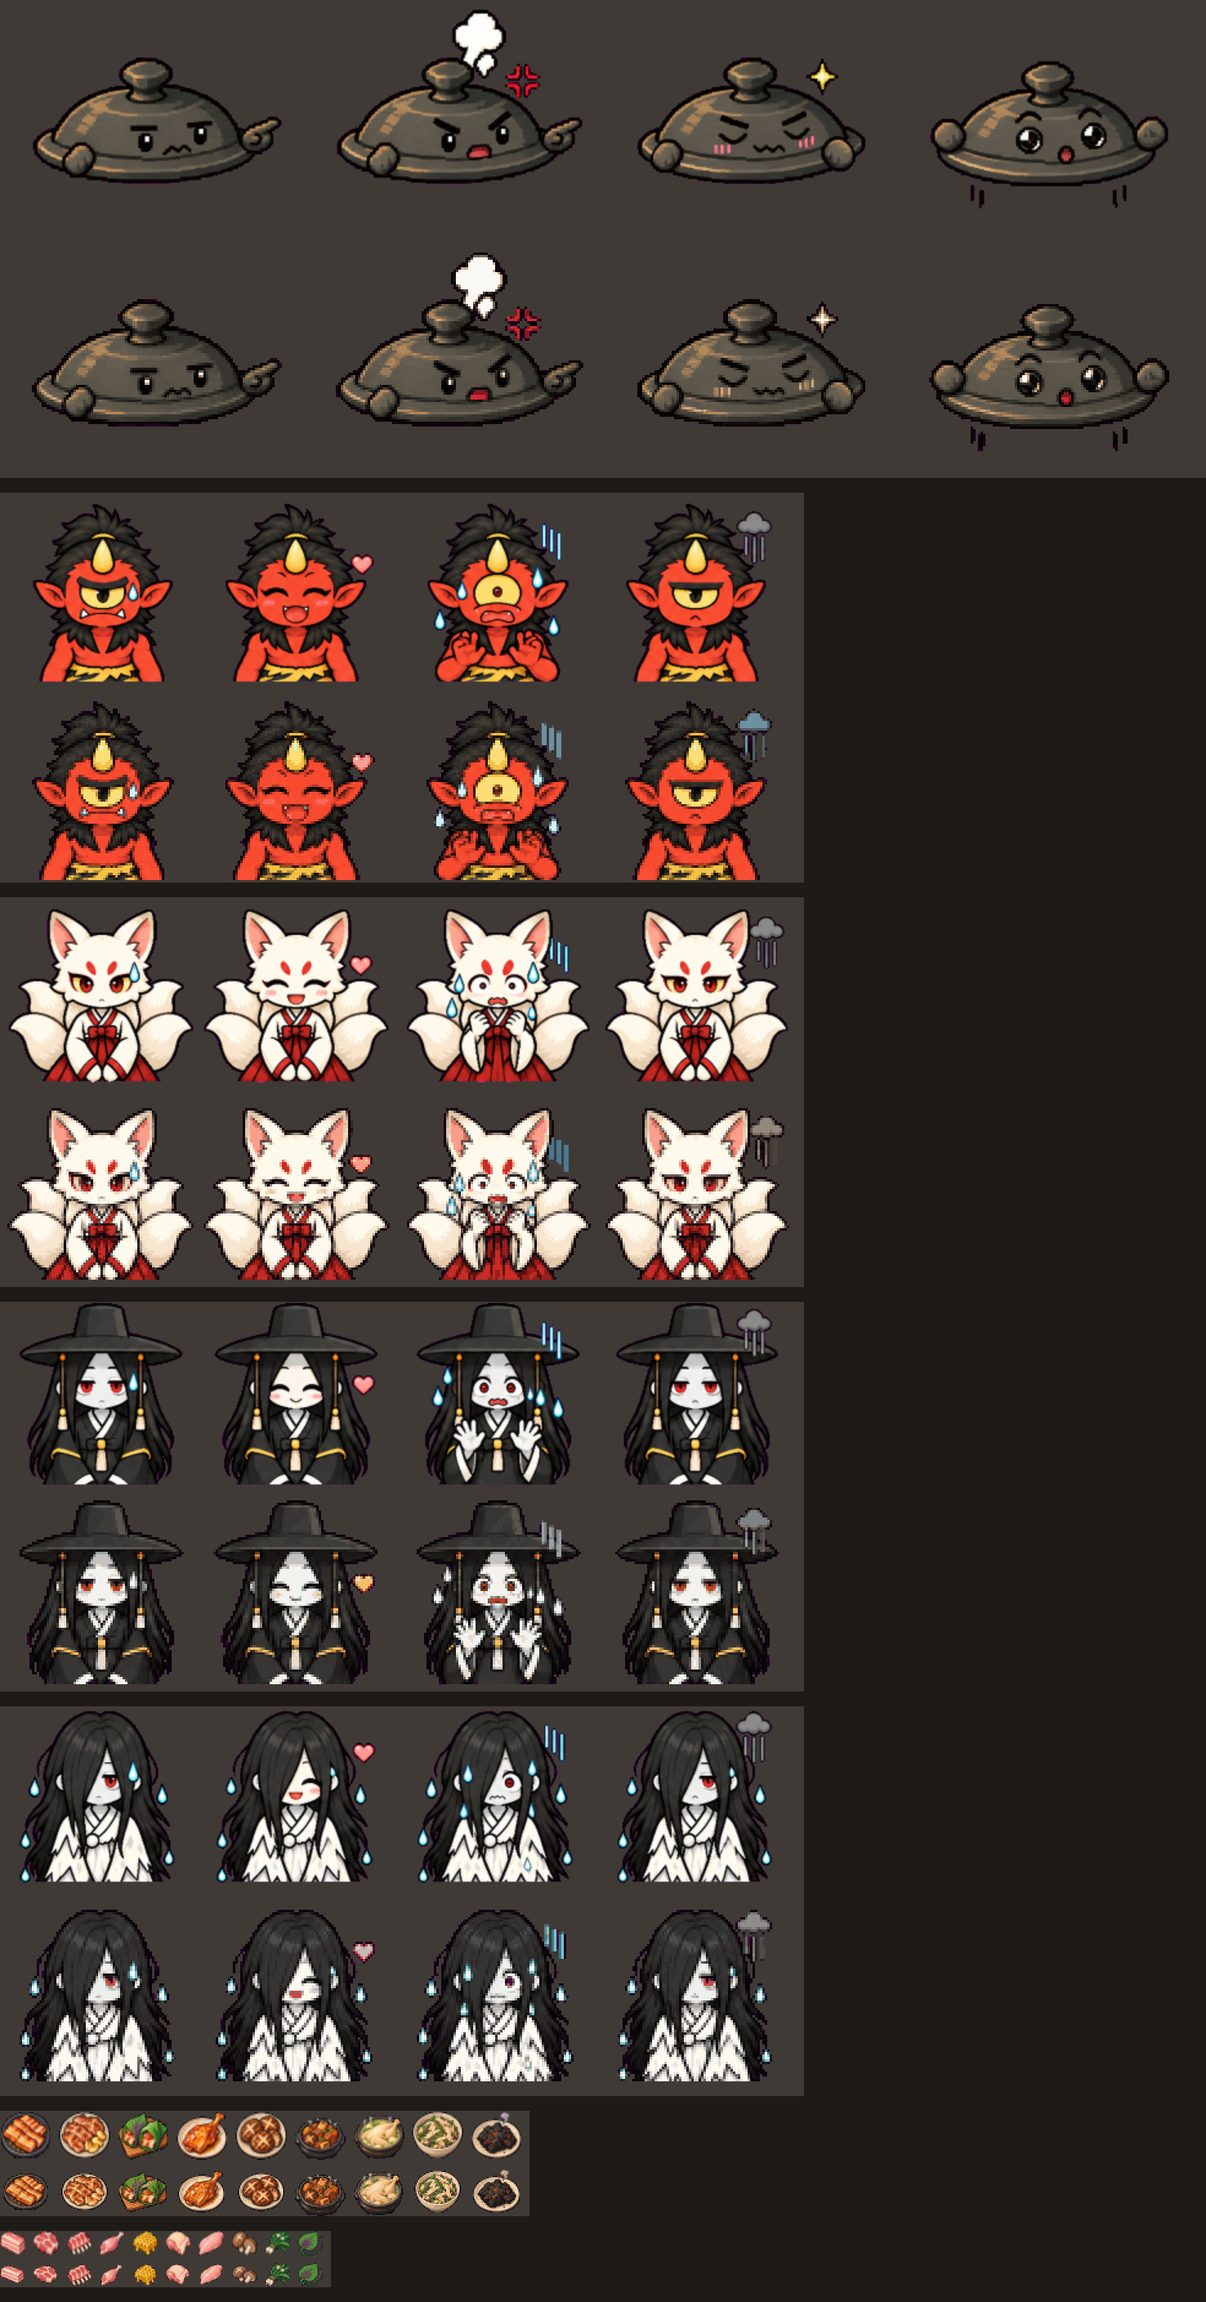
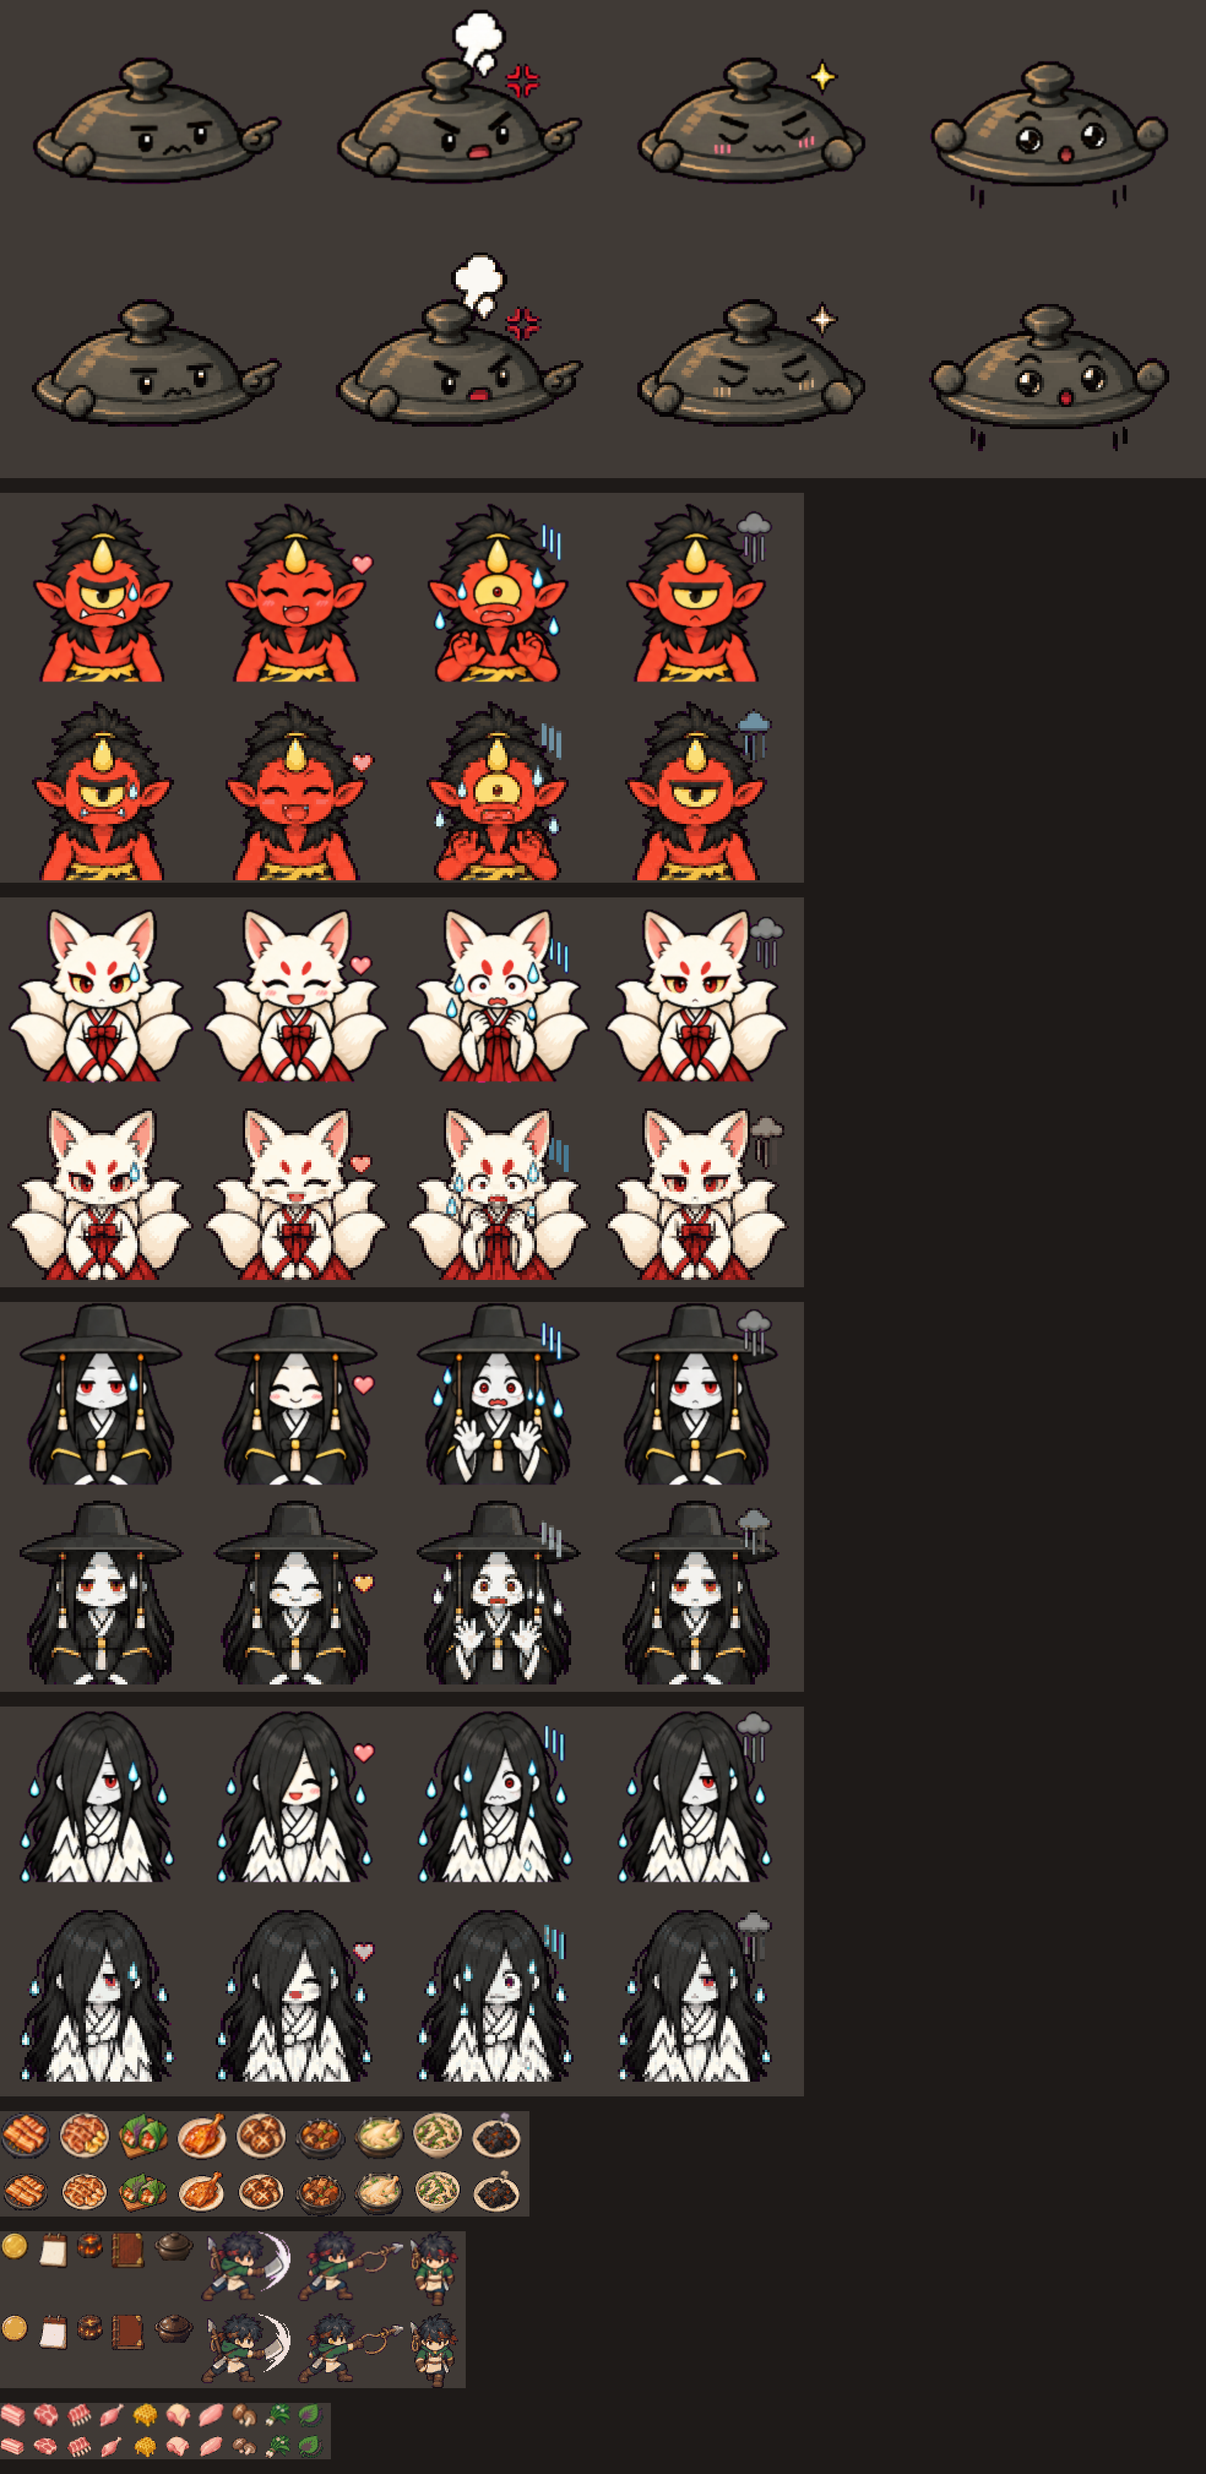
feat(ui): every screen wears the pixel UI kit; the old kit pictures are gone

diff --git a/src/index.css b/src/index.css
@@ -30,48 +30,96 @@ html, body, #root { width: 100%; height: 100%; }
 ::-webkit-scrollbar { width: calc(12px * var(--s)); height: calc(12px * var(--s)); }
 ::-webkit-scrollbar-track {
   border: calc(4px * var(--s)) solid transparent;
-  border-image: url("../art/test/ui/topbar.png") 6 12 fill / calc(4px * var(--s)) stretch;
+  border-image: url("../art/test/ui2/topbar.png") 3 5 fill / calc(2px * var(--s)) calc(4px * var(--s)) stretch;
   image-rendering: pixelated;
 }
 ::-webkit-scrollbar-thumb {
   border: calc(6px * var(--s)) solid transparent;
-  border-image: url("../art/test/ui/btn_normal.png") 13 fill / calc(6px * var(--s)) stretch;
+  border-image: url("../art/test/ui2/btn_normal.png") 3 4 fill / calc(2px * var(--s)) calc(4px * var(--s)) stretch;
   image-rendering: pixelated;
 }
-::-webkit-scrollbar-thumb:active { border-image-source: url("../art/test/ui/btn_pressed.png"); }
+::-webkit-scrollbar-thumb:active { border-image-source: url("../art/test/ui2/btn_pressed.png"); }
 ::-webkit-scrollbar-button { display: none; }
 ::-webkit-scrollbar-corner { background: transparent; }
 body { touch-action: manipulation; user-select: none; -webkit-user-select: none; font-family: "Galmuri11", monospace; -webkit-font-smoothing: none; font-smooth: never; }
 canvas { image-rendering: pixelated; display: block; }
 
-/* ---- UI kit A pieces (art/test/ui, cut by hand from the approved Codex sheet), stretched as 9-slices ---- */
-.ui-panel {
-  border: calc(18px * var(--s)) solid transparent;
-  border-image: url("../art/test/ui/panel.png") 18 fill / calc(18px * var(--s)) stretch;
+/* ---- pixel UI kit (art/test/ui2, approved 2026-10-15; cut to real size by art-src/ui-kit-pixel/cut.py).
+   One art pixel is two game pixels (--k), and the edge widths are whole art pixels, so every pixel stays
+   square. Frames whose edges have grain repeat them (round); flat ones stretch. ---- */
+:root { --k: calc(2px * var(--s)); }
+/* paper: windows, cards, popups (ink text) */
+.ui-panel, .ui-box {
+  border: calc(5 * var(--k)) solid transparent;
+  border-image: url("../art/test/ui2/card.png") 5 fill / calc(5 * var(--k)) round;
   image-rendering: pixelated;
   color: var(--ink);
 }
-/* small boxes: the same frame at half size */
-.ui-box {
-  border: calc(9px * var(--s)) solid transparent;
-  border-image: url("../art/test/ui/panel.png") 18 fill / calc(9px * var(--s)) stretch;
+/* dark walnut: the big frame a screen sits in (cream text) */
+.ui-frame {
+  border: calc(5 * var(--k)) solid transparent;
+  border-image: url("../art/test/ui2/panel.png") 5 fill / calc(5 * var(--k)) stretch;
   image-rendering: pixelated;
-  color: var(--ink);
+  color: var(--cream);
 }
 .ui-btn {
-  font: 700 var(--fs) "Galmuri11", monospace;
+  font: 700 var(--fs) / 1 "Galmuri11", monospace;
   color: var(--cream);
-  text-shadow: 0 var(--s) 0 #3a1408;
-  padding: 0 calc(4px * var(--s));
-  min-height: calc(40px * var(--s));
+  text-shadow: var(--s) var(--s) 0 #4a1408;
+  padding: 0 var(--k);
+  min-height: calc(10 * var(--k));
   background: none;
-  border: calc(13px * var(--s)) solid transparent;
-  border-image: url("../art/test/ui/btn_normal.png") 13 fill / calc(13px * var(--s)) stretch;
+  border: calc(3 * var(--k)) calc(4 * var(--k)) solid transparent;
+  border-image: url("../art/test/ui2/btn_normal.png") 3 4 fill / calc(3 * var(--k)) calc(4 * var(--k)) stretch;
+  image-rendering: pixelated;
+  white-space: nowrap;
+  cursor: pointer;
+}
+.ui-btn:active:not(:disabled) { border-image-source: url("../art/test/ui2/btn_pressed.png"); transform: translateY(var(--s)); }
+.ui-btn:disabled { border-image-source: url("../art/test/ui2/btn_disabled.png"); color: #e0dcd4; text-shadow: var(--s) var(--s) 0 #3a3a3a; cursor: default; }
+/* small square brass button (+, -, x) */
+.ui-sq {
+  font: 700 var(--fs) / 1 "Galmuri11", monospace;
+  color: #4a2a12;
+  width: calc(11 * var(--k)); height: calc(11 * var(--k)); padding: 0;
+  background: none;
+  border: calc(3 * var(--k)) solid transparent;
+  border-image: url("../art/test/ui2/btn_small.png") 3 fill / calc(3 * var(--k)) stretch;
   image-rendering: pixelated;
   cursor: pointer;
 }
-.ui-btn:active:not(:disabled) { border-image-source: url("../art/test/ui/btn_pressed.png"); transform: translateY(var(--s)); }
-.ui-btn:disabled { border-image-source: url("../art/test/ui/btn_disabled.png"); color: #d8d0c4; cursor: default; }
+.ui-sq:disabled { filter: grayscale(1) brightness(0.8); cursor: default; }
+.ui-bubble {
+  border: calc(3 * var(--k)) solid transparent;
+  border-image: url("../art/test/ui2/bubble_plain.png") 3 fill / calc(3 * var(--k)) stretch;
+  image-rendering: pixelated;
+  color: var(--ink);
+}
+.ui-bar {
+  border: calc(3 * var(--k)) calc(5 * var(--k)) solid transparent;
+  border-image: url("../art/test/ui2/topbar.png") 3 5 fill / calc(3 * var(--k)) calc(5 * var(--k)) stretch;
+  image-rendering: pixelated;
+  color: var(--cream);
+}
+.ui-slot {
+  display: inline-flex; align-items: center; justify-content: center;
+  border: calc(3 * var(--k)) solid transparent;
+  border-image: url("../art/test/ui2/slot.png") 3 fill / calc(3 * var(--k)) stretch;
+  image-rendering: pixelated;
+  color: #b89a74; font-weight: 700;
+}
+.ui-plate {
+  border: calc(4 * var(--k)) solid transparent;
+  border-image: url("../art/test/ui2/plate.png") 4 fill / calc(4 * var(--k)) stretch;
+  image-rendering: pixelated;
+  color: #4a2a12; font-weight: 700;
+}
+.ui-ribbon {
+  border: calc(3 * var(--k)) calc(6 * var(--k)) solid transparent;
+  border-image: url("../art/test/ui2/ribbon.png") 3 6 fill / calc(3 * var(--k)) calc(6 * var(--k)) stretch;
+  image-rendering: pixelated;
+  color: var(--cream); font-weight: 700;
+}
 /* no grey flash or focus box when a button or tab is tapped or clicked (user, 2026-10-15); a keyboard
    user still sees where they are */
 button { -webkit-tap-highlight-color: transparent; }
@@ -93,20 +141,4 @@ button:focus-visible { outline: calc(2px * var(--s)) solid var(--brass); outline
   cursor: pointer;
 }
 .ui-tab.on { border-image-source: url("../art/test/ui2/tab_on.png"); color: var(--ink); }
-.ui-bubble {
-  border-style: solid;
-  border-color: transparent;
-  border-width: calc(8px * var(--s)) calc(8px * var(--s)) calc(14px * var(--s)) calc(22px * var(--s));
-  border-image: url("../art/test/ui/bubble.png") 8 8 14 22 fill / calc(8px * var(--s)) calc(8px * var(--s)) calc(14px * var(--s)) calc(22px * var(--s)) stretch;
-  image-rendering: pixelated;
-  color: var(--ink);
-}
-.ui-bar {
-  border-style: solid;
-  border-color: transparent;
-  border-width: calc(6px * var(--s)) calc(12px * var(--s));
-  border-image: url("../art/test/ui/topbar.png") 6 12 fill / calc(6px * var(--s)) calc(12px * var(--s)) stretch;
-  image-rendering: pixelated;
-  color: var(--cream);
-}
 .ui-icon { width: auto; height: calc(16px * var(--s)); image-rendering: pixelated; vertical-align: middle; }

diff --git a/src/game/ui.ts b/src/game/ui.ts
@@ -1,7 +1,7 @@
 import Phaser from "phaser";
 import { artUrl } from "./art";
 
-// UI kit A inside Phaser scenes (walnut, hanji, brass; chosen 2026-10-14), with the Galmuri pixel fonts
+// The pixel UI kit inside Phaser scenes (approved 2026-10-15), with the Galmuri pixel fonts
 // loaded by src/main.tsx. Text sizes stay at the fonts' design sizes (12 / 10 px) so the canvas scales
 // them with clean pixels.
 export const FONT = "Galmuri11";
@@ -10,10 +10,20 @@ export const TEXT = { fontFamily: FONT, fontSize: "12px", color: "#fff3d8", stro
 export const TEXT_SMALL = { fontFamily: FONT_SMALL, fontSize: "10px", color: "#fff3d8", stroke: "#2b1408", strokeThickness: 3 } as const;
 export const TEXT_INK = { fontFamily: FONT, fontSize: "12px", color: "#3a2414" } as const;
 
-const PIECES = ["panel", "btn_normal", "btn_pressed", "btn_disabled", "tab_on", "tab_off", "gauge_empty", "gauge_full", "bubble", "topbar", "icon_gold", "icon_day", "icon_charcoal"];
+// the pixel UI kit (art/test/ui2) inside Phaser scenes; each art pixel is KIT game pixels
+const PIECES = ["btn_normal", "btn_pressed", "btn_disabled", "tab_on", "tab_off", "gauge_empty", "gauge_full", "bubble_plain", "topbar", "btn_small"];
+const ICONS = ["icon_gold", "icon_day", "icon_charcoal"];
+export const KIT = 2;
 
 export function loadUiArt(scene: Phaser.Scene) {
-  for (const p of PIECES) if (!scene.textures.exists(`ui_${p}`)) scene.load.image(`ui_${p}`, artUrl(`test/ui/${p}.png`));
+  for (const p of PIECES) if (!scene.textures.exists(`ui_${p}`)) scene.load.image(`ui_${p}`, artUrl(`test/ui2/${p}.png`));
+  for (const p of ICONS) if (!scene.textures.exists(`ui_${p}`)) scene.load.image(`ui_${p}`, artUrl(`test/ui/${p}.png`));
+}
+
+// A kit piece as a 9-slice `w` x `h` game pixels big: built at art size, drawn KIT times bigger, so its
+// edges stay whole art pixels. l/r/t/b are the piece's edge widths in art pixels.
+export function kitSlice(scene: Phaser.Scene, x: number, y: number, piece: string, w: number, h: number, l: number, r: number, t: number, b: number) {
+  return scene.add.nineslice(x, y, `ui_${piece}`, undefined, Math.round(w / KIT), Math.round(h / KIT), l, r, t, b).setScale(KIT);
 }
 
 export interface UiButton {
@@ -27,8 +37,8 @@ export interface UiButton {
 export function addButton(scene: Phaser.Scene, x: number, y: number, text: string, onClick: () => void, minWidth = 56): UiButton {
   const label = scene.add.text(0, -1, text, { ...TEXT, fontStyle: "bold" }).setOrigin(0.5);
   const w = Math.max(minWidth, Math.ceil(label.width) + 22);
-  const bg = scene.add.nineslice(0, 0, "ui_btn_normal", undefined, w, 26, 13, 13, 13, 13);
-  const box = scene.add.container(x, y, [bg, label]).setSize(w, 26);
+  const bg = kitSlice(scene, 0, 0, "btn_normal", w, 24, 4, 4, 3, 3);
+  const box = scene.add.container(x, y, [bg, label]).setSize(w, 24);
   let enabled = true;
   box.setInteractive({ useHandCursor: true });
   box.on("pointerdown", () => {
@@ -66,11 +76,11 @@ export interface UiTab {
   setOn(on: boolean): void;
 }
 
-// A wooden tab with a brass knob, at its own size (the knob must not stretch).
+// A kit tab, 72x28 game pixels.
 export function addTab(scene: Phaser.Scene, x: number, y: number, text: string, onClick: () => void): UiTab {
-  const bg = scene.add.image(0, 0, "ui_tab_off");
-  const label = scene.add.text(0, 3, text, { ...TEXT, fontStyle: "bold" }).setOrigin(0.5);
-  const box = scene.add.container(x, y, [bg, label]).setSize(bg.width, bg.height);
+  const bg = kitSlice(scene, 0, 0, "tab_off", 72, 28, 4, 4, 4, 4);
+  const label = scene.add.text(0, 0, text, { ...TEXT, fontStyle: "bold" }).setOrigin(0.5);
+  const box = scene.add.container(x, y, [bg, label]).setSize(72, 28);
   box.setInteractive({ useHandCursor: true }).on("pointerdown", onClick);
   return {
     box,
@@ -88,16 +98,16 @@ export interface UiGauge {
 
 // A brass-capped bar; the warm fill is the full picture cropped to the fraction.
 export function addGauge(scene: Phaser.Scene, x: number, y: number): UiGauge {
-  const empty = scene.add.image(0, 0, "ui_gauge_empty").setOrigin(0, 0.5);
-  const full = scene.add.image(0, 0, "ui_gauge_full").setOrigin(0, 0.5);
-  const box = scene.add.container(x - empty.width / 2, y, [empty, full]);
+  const empty = scene.add.image(0, 0, "ui_gauge_empty").setOrigin(0, 0.5).setScale(KIT);
+  const full = scene.add.image(0, 0, "ui_gauge_full").setOrigin(0, 0.5).setScale(KIT);
+  const box = scene.add.container(x - empty.displayWidth / 2, y, [empty, full]);
   const w = full.width;
   const h = full.height;
   return {
     box,
     set(f: number) {
-      // the brass caps (10 px each side) stay; only the inside fills
-      const inner = Math.round(10 + (w - 20) * Math.max(0, Math.min(1, f)));
+      // the brass caps (3 art pixels each side) stay; only the inside fills
+      const inner = Math.round(3 + (w - 6) * Math.max(0, Math.min(1, f)));
       full.setCrop(0, 0, f <= 0 ? 0 : inner, h);
     },
   };

diff --git a/src/game/service/ServiceScene.ts b/src/game/service/ServiceScene.ts
@@ -5,7 +5,7 @@ import { dishScore, serveValue } from "../../../shared/service/settle";
 import { t } from "../../i18n";
 import type { CookStage, Order } from "../cook/CookStage";
 import { createCharacterAnims, loadCharacterArt } from "../hunt/anims";
-import { addButton, addGauge, loadUiArt, TEXT, type UiButton, type UiGauge } from "../ui";
+import { addButton, addGauge, kitSlice, loadUiArt, TEXT, type UiButton, type UiGauge } from "../ui";
 
 // The shop at night (cooking-service design 5), seen from the side. Customers (the server's seed, see
 // shared/service/plan) come in at their time, sit at their table and show their order with a patience
@@ -102,7 +102,7 @@ export class ServiceScene extends Phaser.Scene {
     // tables: the grill stands in until the shop picture is approved
     for (const x of SEATS_X) this.add.image(x, SEAT_Y + 34, "grill").setScale(0.3).setDepth(SEAT_Y + 40);
     // tonight's tally on a wooden strip, and the pause button
-    this.add.nineslice(112, 16, "ui_topbar", undefined, 212, 19, 12, 12, 6, 6).setDepth(999);
+    kitSlice(this, 112, 16, "topbar", 212, 20, 5, 5, 3, 3).setDepth(999);
     this.add.image(18, 16, "ui_icon_gold").setDepth(1000);
     this.tally = this.add.text(34, 16, "", label).setOrigin(0, 0.5).setDepth(1000);
     this.pauseButton = addButton(this, 596, 18, t("service.pause"), () => this.togglePause(), 64);
@@ -213,7 +213,7 @@ export class ServiceScene extends Phaser.Scene {
   // The order above the customer: the dish in a speech bubble, patience in a gauge below it. Tap to cook.
   private makeBubble(g: Guest) {
     g.bubble.removeAll(true);
-    const bubble = this.add.nineslice(0, 0, "ui_bubble", undefined, 56, 50, 22, 8, 8, 14);
+    const bubble = kitSlice(this, 0, 0, "bubble_plain", 56, 50, 3, 3, 3, 3);
     const dish = this.add.image(1, -4, `dish_${g.c.dish}`);
     g.gauge = addGauge(this, 0, 32);
     g.bubble.add([bubble, dish, g.gauge.box]);

diff --git a/src/game/scenes/HuntScene.ts b/src/game/scenes/HuntScene.ts
@@ -19,7 +19,7 @@ import { GAME_HEIGHT, GAME_WIDTH } from "../config";
 import { createCharacterAnims, loadCharacterArt, lookOf, stepBob } from "../hunt/anims";
 import { angerFlock, CHAR_SCALE, createMob, dazeMob, drawMob, isMobVulnerable, mobFacing, mobPos, mobRadius, mobWasHit, setMobPos, stepMob, type Mob, type Spawn } from "../hunt/mobs";
 import { joystickVector } from "../joystick";
-import { addButton, addGauge, loadUiArt, TEXT, TEXT_SMALL, type UiGauge } from "../ui";
+import { addButton, addGauge, kitSlice, loadUiArt, TEXT, TEXT_SMALL, type UiGauge } from "../ui";
 
 // The forest hunt (plan 03), quarter view, Dave-the-Diver controls.
 // PC: WASD / arrows move, aim with the mouse, left click = harpoon, right click = slash, E = gather,
@@ -216,7 +216,7 @@ export class HuntScene extends Phaser.Scene {
     this.returnButton = back.box.setScrollFactor(0).setDepth(10000);
     // the lunchbox: one button per packed dish under the way home (the dish at one game pixel per art pixel)
     this.huntData.lunchbox.forEach((dish, i) => {
-      const bubble = this.add.nineslice(0, 0, "ui_bubble", undefined, 50, 48, 22, 8, 8, 14);
+      const bubble = kitSlice(this, 0, 0, "bubble_plain", 50, 48, 3, 3, 3, 3);
       const pic = this.add.image(1, -3, `dish_${dish}`);
       const key = this.add.text(18, 12, `${i + 1}`, TEXT_SMALL).setOrigin(0.5);
       const button = this.add.container(GAME_WIDTH - 28, 56 + i * 52, [bubble, pic, key]).setSize(50, 48).setScrollFactor(0).setDepth(10000);

diff --git a/src/screens/dialogue/dialogue.css b/src/screens/dialogue/dialogue.css
@@ -18,8 +18,8 @@
 /* the dark bar, a little see-through so the scene shows behind it (the words stay solid) */
 .dialogue-box::before {
   content: ""; position: absolute; inset: 0; z-index: -1;
-  border: calc(16px * var(--s)) solid transparent;
-  border-image: url("../../../art/test/ui/dialogue_bar.png") 16 fill / calc(16px * var(--s)) stretch;
+  border: calc(5 * var(--k)) solid transparent;
+  border-image: url("../../../art/test/ui2/panel.png") 5 fill / calc(5 * var(--k)) stretch;
   image-rendering: pixelated;
   opacity: 0.9;
 }

diff --git a/art-src/pixel-pass/convert.py b/art-src/pixel-pass/convert.py
@@ -26,6 +26,7 @@ GROUPS = {
         for who in ["dokkaebi", "gumiho", "reaper", "ghost"]
     },
     "dishes": ([f"dishes/{d}.png" for d in ["grilled_belly", "garlic_neck", "belly_ssam", "honey_rabbit", "shiitake_grill", "rib_stew", "baeksuk", "chicken_perilla", "fail"]], 1, 24, (42, 40)),
+    "ui": ([f"ui/{f}.png" for f in ["icon_gold", "icon_day", "icon_charcoal", "icon_notebook", "icon_pot", "upg_melee", "upg_ranged", "upg_armor"]], 1, 16, None),
     "items": (
         [f"items/icon_{i}.png" for i in ["boar_belly", "boar_neck", "boar_rib", "rabbit_leg", "honeycomb", "chicken_thigh", "chicken_breast", "shiitake", "wild_garlic", "perilla"]],
         1,
